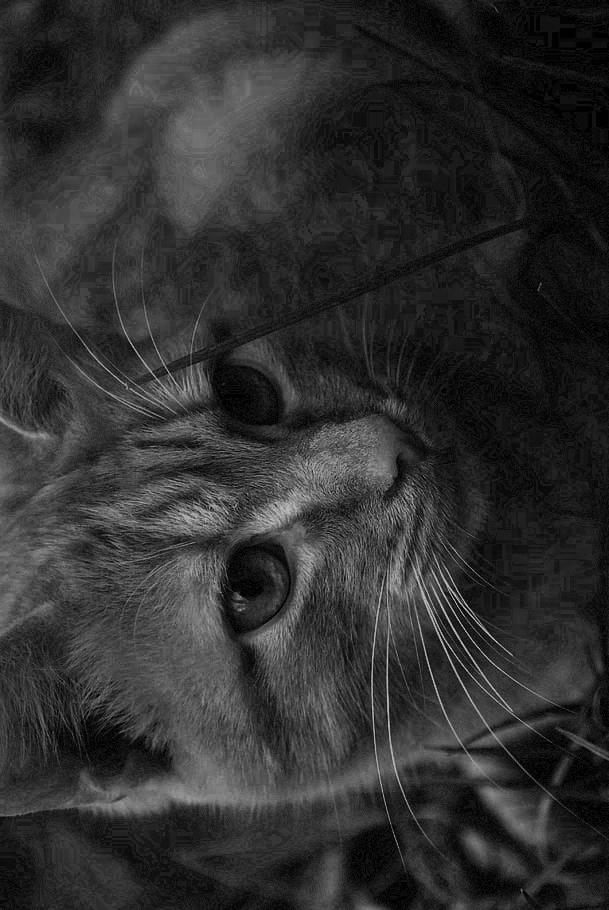
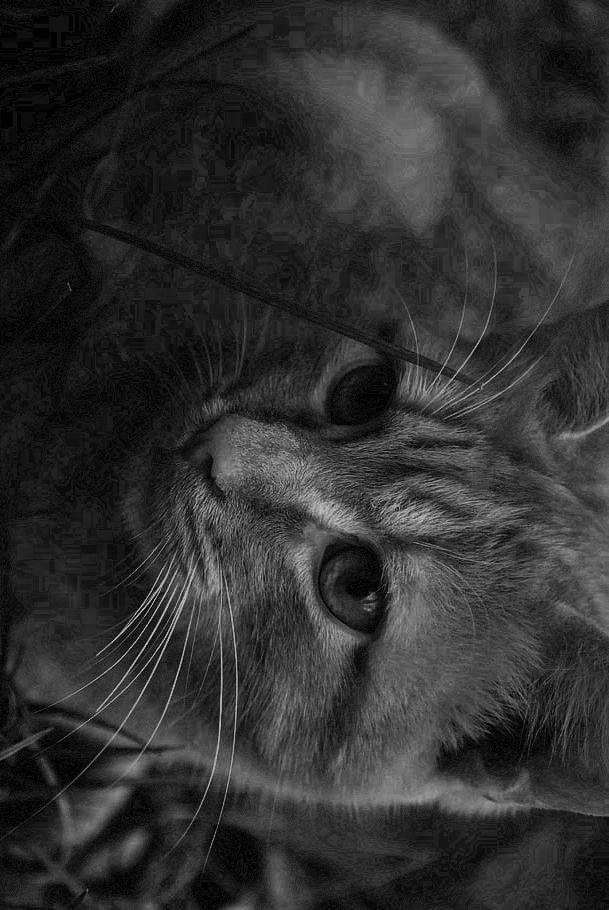
fixing rotate right

diff --git a/GrayImage.java b/GrayImage.java
@@ -5,17 +5,29 @@ public class GrayImage implements Frame, Comparable<Frame> {
 
 	public GrayImage(int[][] frame) {
 		this.frame = frame;
+		// deep copy
+		// for (int i = 0; i < frame.length; i++) {
+		// for (int j = 0; j < frame[i].length; j++) {
+		// this.frame[i][j] = frame[i][j];
+		// }
+		// }
 	}
 
 	public GrayImage(GrayImage gI) {
+		// deep copy
 		this.frame = gI.frame;
+		for (int i = 0; i < gI.frame.length; i++) {
+			for (int j = 0; j < gI.frame[i].length; j++) {
+				this.frame[i][j] = gI.frame[i][j];
+			}
+		}
 	}
 
 	public void rotate90() {
 		int[][] rotatedArray = new int[this.frame[0].length][this.frame.length];
-		for (int i = 0; i < rotatedArray.length; i++) {
-			for (int j = 0; j < rotatedArray[0].length; j++) {
-				rotatedArray[i][j] = this.frame[j][i];
+		for (int x = 0; x < rotatedArray[0].length; x++) {
+			for (int y = 0; y < rotatedArray.length; y++) {
+				rotatedArray[y][x] = this.frame[this.frame.length - x - 1][y];
 			}
 		}
 		this.frame = rotatedArray;
@@ -31,6 +43,7 @@ public class GrayImage implements Frame, Comparable<Frame> {
 	};
 
 	public static int avgOfNeighbors(int[][] pic, int x, int y, int n) {
+		int counter = 0;
 		int sum = 0;
 		int k = (n - 1) / 2;
 		for (int i = x - k; i <= x + k; i++) {
@@ -41,11 +54,12 @@ public class GrayImage implements Frame, Comparable<Frame> {
 				if (i >= pic.length || j >= pic[0].length) {
 					continue;
 				} else {
+					counter++;
 					sum = sum + pic[i][j];
 				}
 			}
 		}
-		int avg = sum / (n * n);
+		int avg = sum / counter;
 		return avg;
 	}
 
@@ -147,8 +161,7 @@ public class GrayImage implements Frame, Comparable<Frame> {
 	};
 
 	public int[][] getFrame() {
-
-		return frame;
+		return this.frame;
 	}
 
 }

diff --git a/RGBImage.java b/RGBImage.java
@@ -14,18 +14,23 @@ public class RGBImage implements Frame, Comparable<Frame> {
 	public void rotate90() {
 		int[][][] rotate = new int[3][this.frame[0][0].length][this.frame[0].length];
 
-		for (int x = 0; x < 3; x++) {
-			for (int i = 0; i < rotate[x].length; i++) {
-				for (int j = 0; j < rotate[x][0].length; j++) {
-					rotate[x][i][j] = this.frame[x][j][i];
-				}
+		for (int x = 0; x < rotate[0][0].length; x++) {
+			for (int y = 0; y < rotate[0].length; y++) {
+				rotate[0][y][x] = this.frame[0][this.frame[0].length - x - 1][y];
+				rotate[1][y][x] = this.frame[1][this.frame[1].length - x - 1][y];
+				rotate[2][y][x] = this.frame[2][this.frame[2].length - x - 1][y];
 			}
-
 		}
+			
 
-		this.frame = rotate;
+			// for (int i = 0; i < rotate[color].length; i++) {
+			// for (int j = 0; j < rotate[color][0].length; j++) {
+			// rotate[color][i][j] = this.frame[color][j][i];
+			// }
+			// }
 
-	};
+			this.frame = rotate;
+		}
 
 	public void smooth(int n) {
 		for (int externalLoopOfColors = 0; externalLoopOfColors < 3; externalLoopOfColors++) {
@@ -168,7 +173,7 @@ public class RGBImage implements Frame, Comparable<Frame> {
 	public int compareTo(Frame f) {
 
 		int ArrayOfFrame[][][];
-		
+
 		if (f instanceof RGBImage) {
 			ArrayOfFrame = ((RGBImage) f).getFrame();
 
@@ -193,7 +198,7 @@ public class RGBImage implements Frame, Comparable<Frame> {
 	};
 
 	public int[][][] getFrame() {
-		return frame;
+		return this.frame;
 	}
 
 }

diff --git a/FrameContainer.java b/FrameContainer.java
@@ -29,9 +29,7 @@ public class FrameContainer implements ContainerFunctions {
             BufferedReader bf = new BufferedReader(fr);
             String str;
             str = bf.readLine();
-
             while (str != null) {
-
                 if (str != null) {
                     Frame f = MyImageIO.readImageFromFile(str, isGray);
                     if (isGray) {
